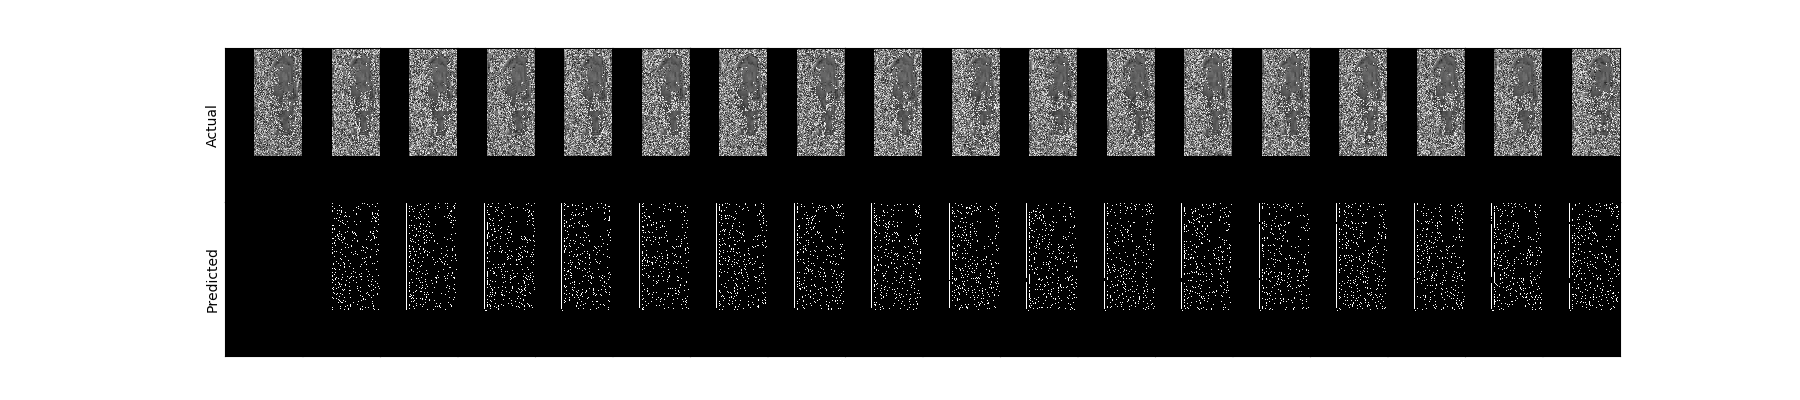
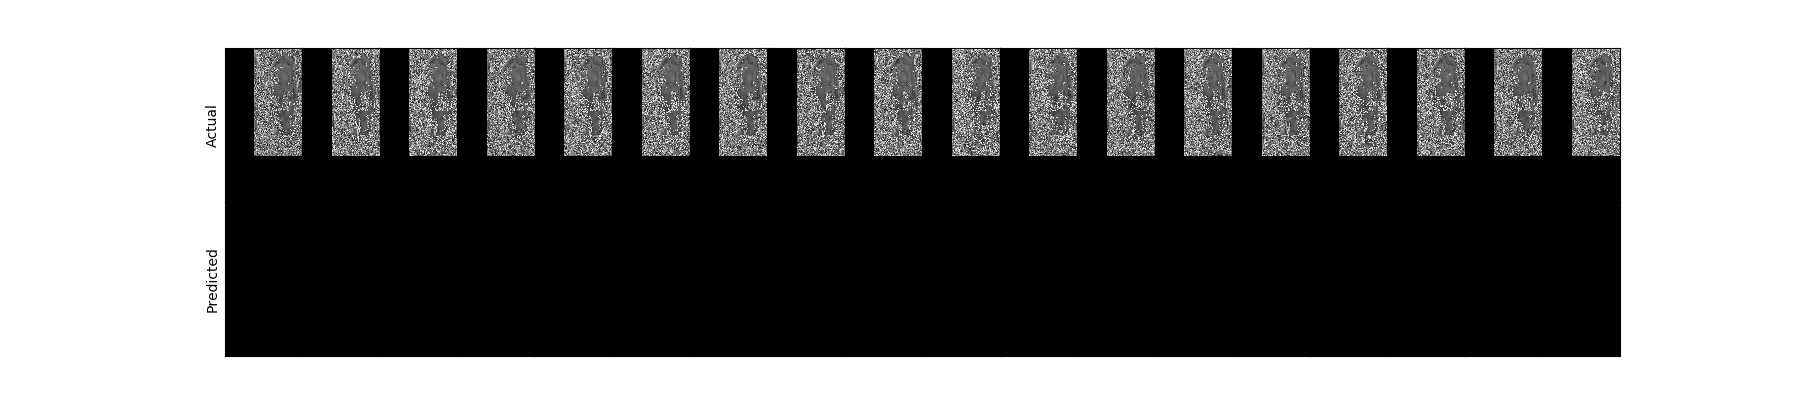
new layer changes

diff --git a/MR_train.py b/MR_train.py
@@ -180,12 +180,12 @@ N_seq_val = 5  # number of sequences to use for validation
 n_channels, im_height, im_width = (1, 128, 256)
 input_shape = (im_height, im_width, n_channels)
 #input_shape = (n_channels, im_height, im_width)  if K.image_data_format() == 'channels_first' else (im_height, im_width, n_channels)
-stack_sizes = (n_channels, 24, 48, 96, 192)
+stack_sizes = (n_channels, 24, 48, 96)
 R_stack_sizes = stack_sizes
-A_filt_sizes = (3, 3, 3, 3)
-Ahat_filt_sizes = (3, 3, 3, 3, 3)
-R_filt_sizes = (3, 3, 3, 3, 3)
-layer_loss_weights = np.array([1., 0., 0., 0., 0.])  # weighting for each layer in final loss; "L_0" model:  [1, 0, 0, 0], "L_all": [1, 0.1, 0.1, 0.1]
+A_filt_sizes = (3, 3, 3)
+Ahat_filt_sizes = (3, 3, 3, 3)
+R_filt_sizes = (3, 3, 3, 3)
+layer_loss_weights = np.array([1., 0., 0., 0.])  # weighting for each layer in final loss; "L_0" model:  [1, 0, 0, 0], "L_all": [1, 0.1, 0.1, 0.1]
 layer_loss_weights = np.expand_dims(layer_loss_weights, 1)
 nt = 18 # number of timesteps used for sequences in training
 time_loss_weights = 1./ (nt - 1) * np.ones((nt,1))  # equally weight all timesteps except the first
